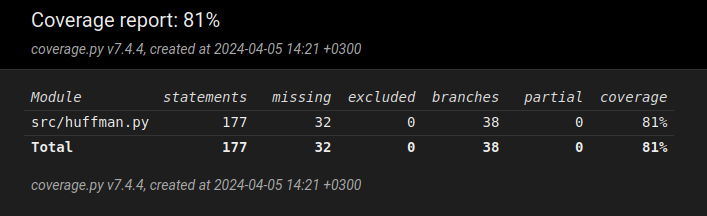
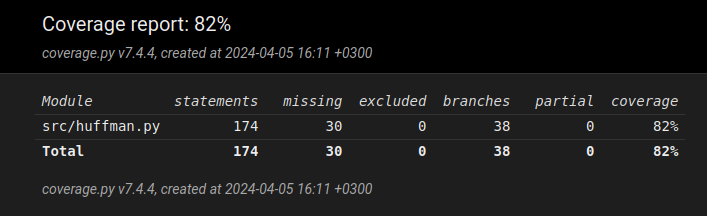
Update weeklyreports

diff --git a/documentation/weeklyreports/weeklyreport3.md b/documentation/weeklyreports/weeklyreport3.md
@@ -1,0 +1,14 @@
+### Viikkoraportti 3
+
+Tällä viikolla suurin osa ajasta kului siihen, mikä on paras ratkaisu tallentaa huffmanin puu tiedostoon. Tämän viikon suurin haaste oli luoda järkevä formaatti binääritiedostolle, jotta sen parsiminen onnistuu. Asia koitui yllättävän työlääksi ja ratkaisun luominen vei paljon aikaa, joten projekti ei ole edennyt niin jouhevasti kuin olin suunnitellut. Nyt kuitenkin olen saanut Huffmanin koodauksen pakkaus- ja purkualgoritmit valmiiksi sekä alustavan käyttöliittymän, jotta ohjelmaa voi käyttää ja testata. Lisäksi Huffman-luokan metodeille on lisätty testejä. 
+
+Tällä hetkellä testisyötteenä on ollut vain 1,7 kilotavun kokoinen tiedosto, mutta ensi viikolla olisi tarkoitus myös testata suuremmilla tekstitiedostoilla ja aloittaa myös Lempel-Ziv-algoritmin kehitys. Testausdokumentti on myös aloitettu, mutta sen on tarkoitus laajentua tulevilla viikoilla.
+
+
+Tuntikirjanpito: \
+25.3. 4h45min \
+2.4. 4h45min \
+3.4. 4h \
+4.4. 3h30min \
+5.4. 4h \
+Yhteensä  21 tuntia.

diff --git a/documentation/weeklyreports/weeklyreport2.md b/documentation/weeklyreports/weeklyreport2.md
@@ -6,7 +6,7 @@ mutta myös itse Huffman-koodauksen pakkausalgoritmin olen saanut aloitettua. Ke
 On vaikea sanoa täysin varmasti, että pakkausalgoritmi toimi oikein, sillä en ole vielä kehittänyt purkualgoritmia. Seuraavana vuorossa onkin luoda jonkinlainen purkualgoritmi, jotta varmistutaan siitä, että pakkausalgoritmikin toimii oikein.
 Tämän jälkeen ajattelin keskittyä siihen, miten pakata data tehokkaasti tiedostoon.
 
-Tuntikirjanpito: 
+Tuntikirjanpito: \
 16.3. 2h \
 18.3. 5h \
 19.3. 4h \
